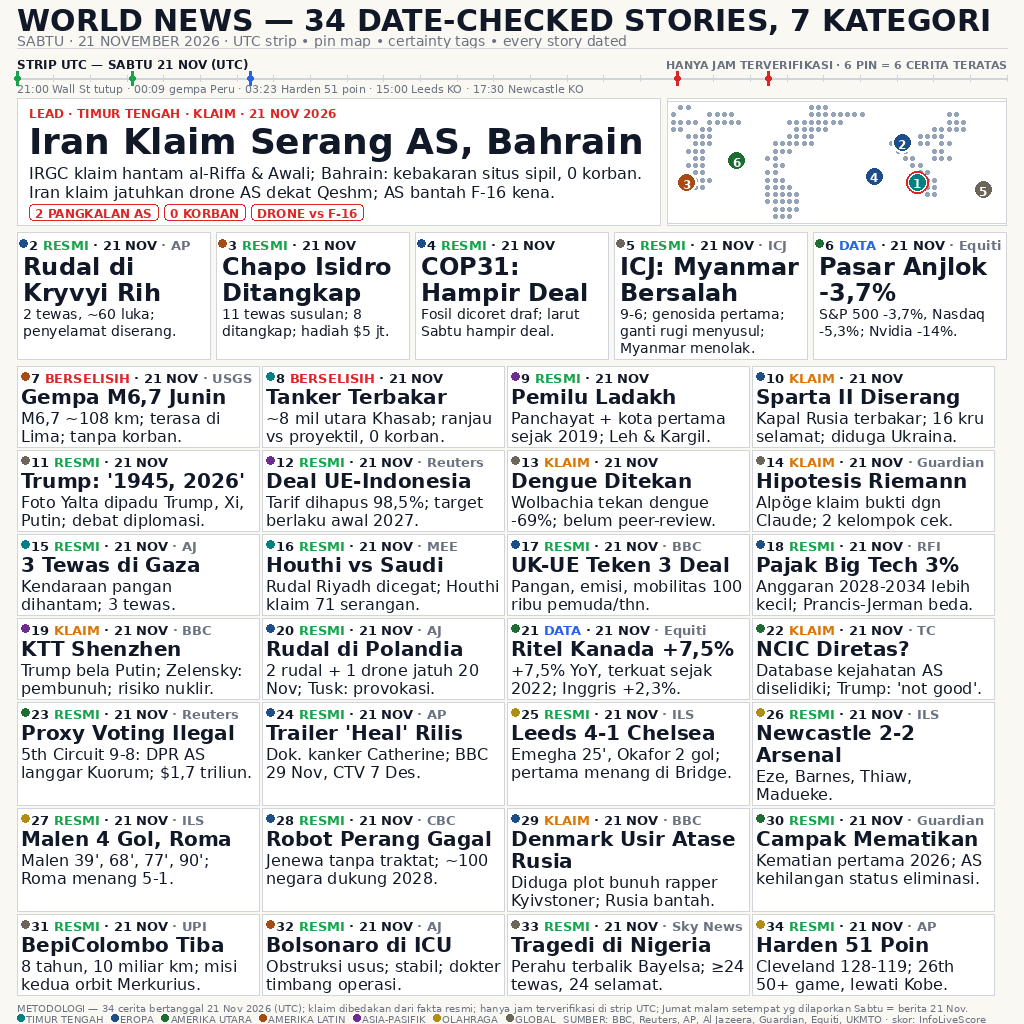
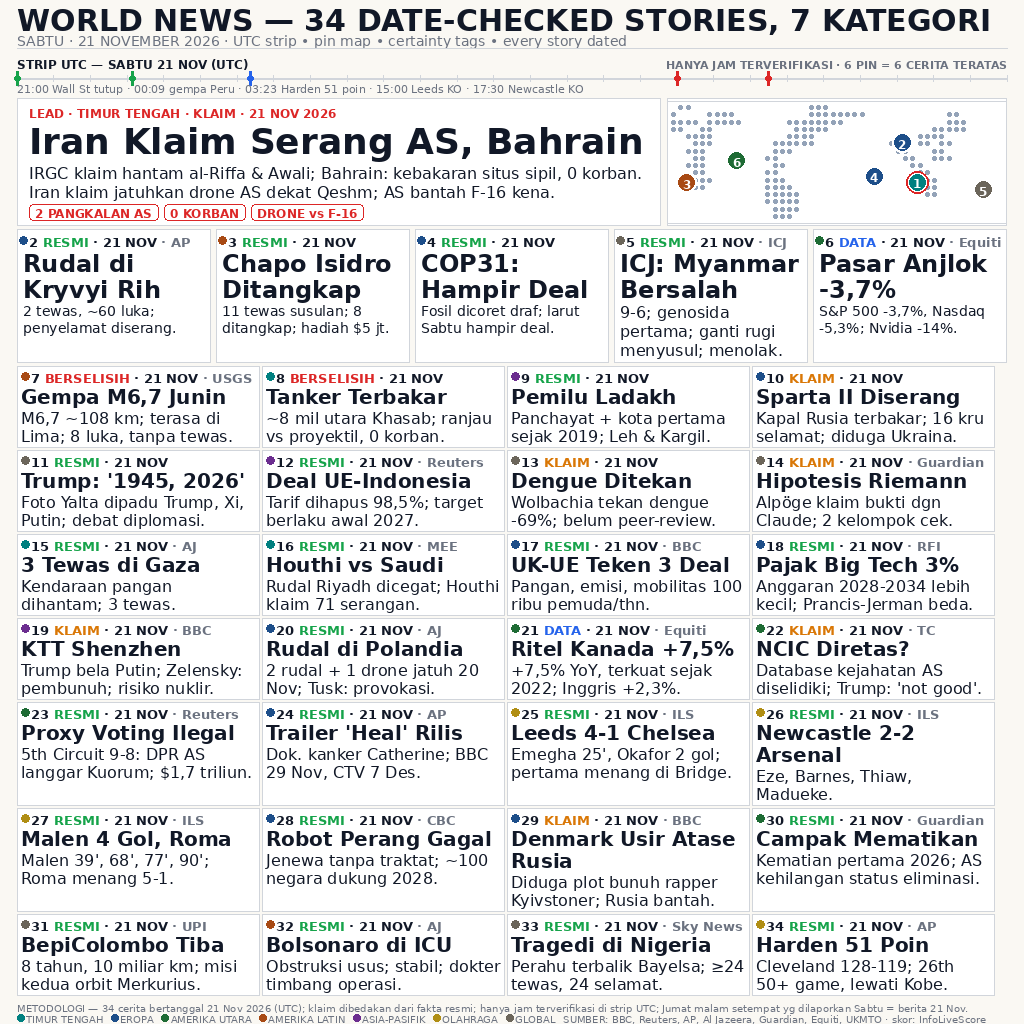
news-image-20261121 v7.1: fix #7 8 luka + #5 font 16px

diff --git a/build_image.py b/build_image.py
@@ -16,6 +16,10 @@ v7 = polish atas v6 (34 cerita, 1 kartu = 1 cerita, lead + 5 sekunder +
 - header "7 KATEGORI"; footer sumber PRIMER + aturan tanggal (brief #20/#21).
 - audit angka: semua angka dicek ulang vs brief + file riset (brief #23).
 
+v7.1 (fix kecil atas v7): #7 "8 luka, tanpa tewas" (Indeci balance 21 Nov,
+terverifikasi parent); #5 badan naik ke 16px (3 baris, SEC_H 134,
+GAP_LS/GAP_SG 3 — total tetap 1024).
+
 Keputusan geometri (diukur dgn lebar PIL asli, bukan hitung karakter):
 - meta format: "N TAG . 21 NOV . SRC" tanpa kurung [ ] (tag tetap berwarna)
   + dot grup; jam HH:MM TIDAK di meta (hanya di strip, berlabel) karena
@@ -62,12 +66,12 @@ TAG_STYLE = {
 HEADER_H = 50
 STRIP_H = 40
 LEAD_H = 128
-SEC_H = 128
+SEC_H = 134
 FOOTER_H = 24
 GAP_HS = 4      # header -> strip
 GAP_SL = 4      # strip -> lead
-GAP_LS = 6      # lead -> secondary
-GAP_SG = 6      # secondary -> grid
+GAP_LS = 3      # lead -> secondary (v7.1: -3 demi SEC_H 134)
+GAP_SG = 3      # secondary -> grid (v7.1: -3 demi SEC_H 134)
 GAP_GF = 4      # grid -> footer
 GRID_ROWS = [82, 82, 82, 82, 104, 104, 82]
 GRID_GAP = 2
@@ -278,7 +282,9 @@ def draw_lead(draw, x, y):
     draw_map(draw, mx, y, mw, LEAD_H)
 
 def draw_secondary(draw, x, y):
-    """5 kartu sekunder #2-6 (w 194, judul 24px, isi 14px)."""
+    """5 kartu sekunder #2-6 (w 194, judul 24px, isi 14px — kecuali #5:
+    isi 16px, 3 baris (v7.1: lantai font rev7; 'Myanmar' dihapus dari
+    badan karena sudah di judul 'ICJ: Myanmar Bersalah')."""
     for i, s in enumerate(STORIES[1:6]):
         cx = x + i * (SEC_W + SEC_GAP)
         draw.rectangle([cx, y, cx + SEC_W - 1, y + SEC_H - 1],
@@ -289,12 +295,13 @@ def draw_secondary(draw, x, y):
         assert len(tl) <= 2, f"judul sekunder #{s[0]} {len(tl)} baris"
         for j, ln in enumerate(tl):
             draw.text((cx + 6, y + 20 + j * 26), ln, font=tf, fill=INK)
-        bf = f(14)
+        bf = f(16) if s[0] == 5 else f(14)
         bl = wrap(s[3], bf, SEC_W - 12, draw)
         max_body = 3 if s[0] == 5 else 2
         assert len(bl) <= max_body, f"body sekunder #{s[0]} {len(bl)} baris"
+        lh = 19 if s[0] == 5 else 17
         for j, ln in enumerate(bl):
-            draw.text((cx + 6, y + 74 + j * 17), ln, font=bf, fill=INK)
+            draw.text((cx + 6, y + 74 + j * lh), ln, font=bf, fill=INK)
 
 def draw_regular(draw, x, y):
     """28 kartu reguler #7-34, grid 4 kolom; baris 4-5 tinggi 104px."""

diff --git a/stories_v7.py b/stories_v7.py
@@ -8,8 +8,9 @@
 #   13px pada lebar meta (190/235px); keduanya dikredit di footer sumber.
 #   Singkatan meta: Middle East Eye->MEE, InfoLiveScore->ILS, Al Jazeera->AJ,
 #   TechCrunch->TC. Tag di meta tanpa kurung [ ] (geometri 13px).
-# #7 Peru: "8 luka" TIDAK terkonfirmasi di file riset mana pun -> fallback
-#   badan lama "tanpa korban" (rev6-brief: tanpa korban/kerusakan).
+# #7 Peru: "8 luka, tanpa tewas" TERVERIFIKASI parent 22 Nov (Indeci balance
+#   21 Nov, dikutip RPP + 2+ media; gempa 21 Nov 00:09 UTC) — ganti badan
+#   lama "tanpa korban" (8 luka = ada korban luka).
 # #28: "~04:00" DIHAPUS (strip klaim "HANYA JAM TERVERIFIKASI").
 # #6: klausa SEC dihapus (tag [DATA] dipertahankan hanya tanpa klaim SEC).
 # #13: tag DATA -> KLAIM (studi belum peer-review). #19: RESMI -> KLAIM.
@@ -30,14 +31,14 @@ STORIES = [
      "Fosil dicoret draf; larut Sabtu hampir deal.",
      "RESMI", None, 30.7, 36.9, None),
     (5, "GLOBAL", "ICJ: Myanmar Bersalah",
-     "9-6; genosida pertama; ganti rugi menyusul; Myanmar menolak.",
+     "9-6; genosida pertama; ganti rugi menyusul; menolak.",
      "RESMI", None, 96.0, 21.0, "ICJ"),
     (6, "AMERIKA UTARA", "Pasar Anjlok -3,7%",
      "S&P 500 -3,7%, Nasdaq -5,3%; Nvidia -14%.",
      "DATA", "21:00", -74.0, 40.7, "Equiti"),
     # 7–12 — REGULER
     (7, "AMERIKA LATIN", "Gempa M6,7 Junin",
-     "M6,7 ~108 km; terasa di Lima; tanpa korban.",
+     "M6,7 ~108 km; terasa di Lima; 8 luka, tanpa tewas.",
      "BERSELISIH", "00:09", -75.0, -11.0, "USGS"),
     (8, "TIMUR TENGAH", "Tanker Terbakar",
      "~8 mil utara Khasab; ranjau vs proyektil, 0 korban.",
